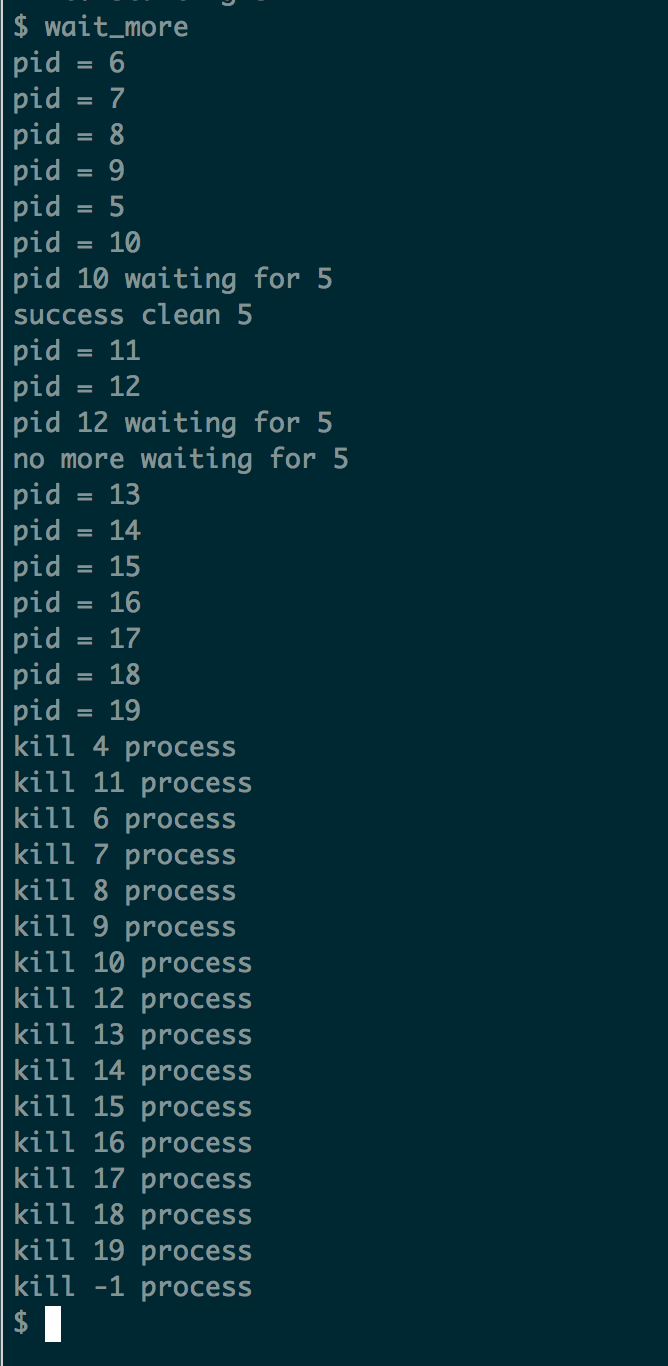
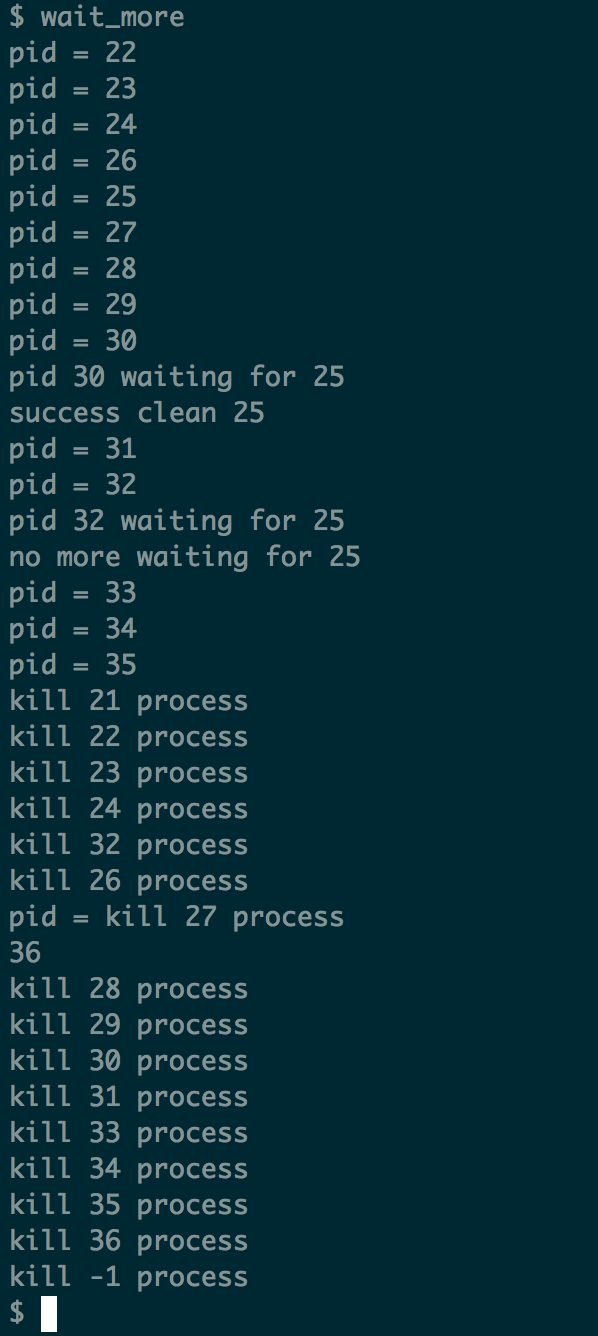
fix bug for test case

diff --git a/Labs/lab1/wait_more.c b/Labs/lab1/wait_more.c
@@ -9,7 +9,8 @@
 #include "memlayout.h"
 
 int main(int argc, char ** argv){
-
+    
+    int begin = getpid();
     int pid = fork();
     int i;
     int status;
@@ -22,21 +23,21 @@ int main(int argc, char ** argv){
         if (pid == 0){
             int j = 0;
             while(j++ < 1000);
-            if(getpid() == 5) sleep(50);
+            if(getpid() == begin+5) sleep(50);
             
             printf(1,"pid = %d\n",getpid());
-            if(getpid() == 10){
-                printf(1,"pid 10 waiting for 5\n");
-                int wpid = waitpid(5,&status,0);
-                printf(1,"success clean %d, exit status is%d\n",wpid,status);
+            if(getpid() == begin+10){
+                printf(1,"pid %d waiting for %d\n",begin+10,begin+5);
+                int wpid = waitpid(begin+5,&status,0);
+                printf(1,"success clean %d\n",wpid);
             }
-            if(getpid() == 12){
-                printf(1,"pid 12 waiting for 5\n");
-                int wpid = waitpid(5,&status,0);
+            if(getpid() == begin+12){
+                printf(1,"pid %d waiting for %d\n",begin+12,begin+5);
+                int wpid = waitpid(begin+5,&status,0);
                 if(wpid == -1)
-                    printf(1,"no more waiting for 5\n");
+                    printf(1,"no more waiting for %d\n",begin+5);
             }
-            if(getpid() == 5)
+            if(getpid() == begin+5)
                 exit(5);
             exit(0);
         }

diff --git a/Labs/lab1/wait_one.c b/Labs/lab1/wait_one.c
@@ -10,6 +10,7 @@
 
 int main(int argc, char ** argv){
 
+    int begin = getpid();
     int pid = fork();
     int i;
     int status;
@@ -22,15 +23,15 @@ int main(int argc, char ** argv){
         if (pid == 0){
             int j = 0;
             while(j++ < 1000);
-            if(getpid() == 5) sleep(30);
+            if(getpid() == begin+5) sleep(30);
             
             printf(1,"pid = %d\n",getpid());
-            if(getpid() == 10){
-                printf(1,"pid 10 waiting for 5\n");
-                int wpid = waitpid(5,&status,0);
+            if(getpid() == begin+10){
+                printf(1,"pid %d waiting for %d\n",begin+10,begin+5);
+                int wpid = waitpid(begin+5,&status,0);
                 printf(1,"success clean %d, status is %d\n",wpid,status);
             }
-            if(getpid() == 5){
+            if(getpid() == begin+5){
                 exit(5);
             }
             exit(0);
